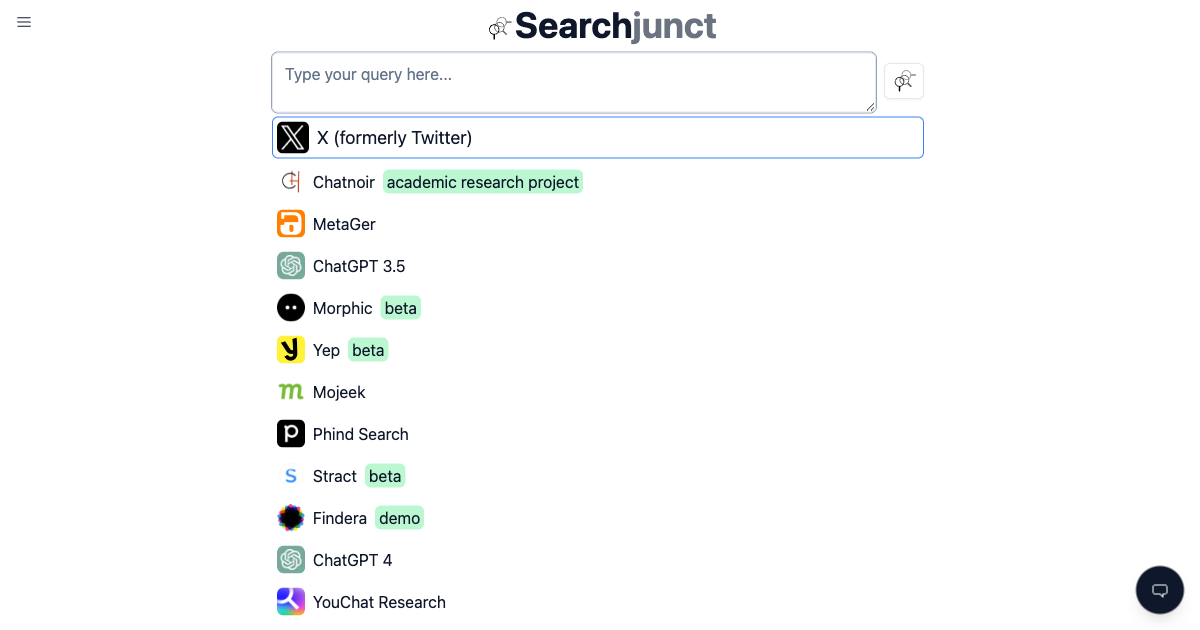
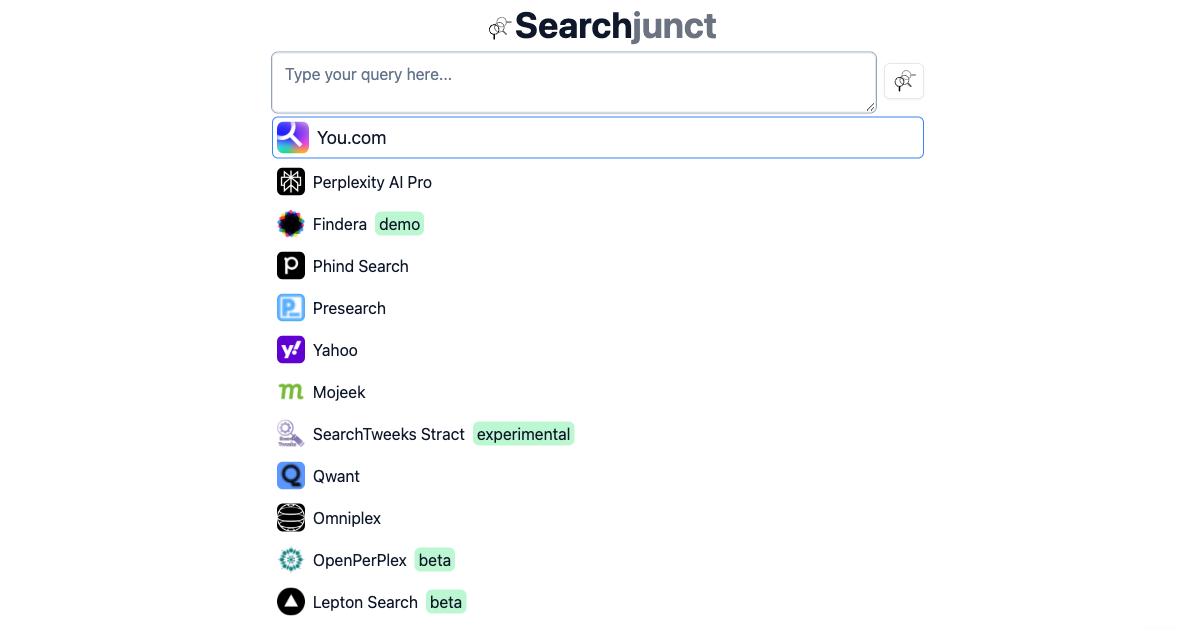
Add Rubik's AI system, update screenshots, and improve feedback action
- Add Rubik's AI to the list of systems in systems.json (#136)
- Update the home screenshot to reflect the latest UI changes
- Enhance the FeedbackAction component:
  - Add dynamic project name based on environment variable
  - Wrap buttons in anchor tags for better accessibility
  - Include Twitter logo icon for tweet button
- Update the LastUpdated component with the latest timestamp
- Style anchor tags globally for better visual consistency

Changed region(s): [[0.2158, 0.181, 0.4933, 0.573], [0.2158, 0.6635, 0.4933, 0.9952], [0.925, 0.8746, 0.9867, 0.9952]]

diff --git a/src/components/FeedbackAction.tsx b/src/components/FeedbackAction.tsx
@@ -1,6 +1,6 @@
-import React from 'react';
+import React, { useState, useEffect } from 'react';
 import { Button } from '@/src/components/ui/button';
-import { ChatBubbleIcon, EnvelopeClosedIcon, ExitIcon, GitHubLogoIcon } from '@radix-ui/react-icons';
+import { ChatBubbleIcon, EnvelopeClosedIcon, ExitIcon, GitHubLogoIcon, TwitterLogoIcon } from '@radix-ui/react-icons';
 import {
   Drawer,
   DrawerClose,
@@ -14,6 +14,18 @@ import {
 
 
 export const FeedbackAction: React.FC = () => {
+  const [isClient, setIsClient] = useState(false);
+
+  useEffect(() => {
+    setIsClient(true);
+  }, []);
+
+  if (!isClient) {
+    return null;
+  }
+
+
+  const projectName = process.env.NEXT_PUBLIC_DOMAIN?.split('/')[2].split('.')[0];
 
   return (
     <Drawer>
@@ -28,22 +40,33 @@ export const FeedbackAction: React.FC = () => {
           <DrawerDescription>Provide feedback.</DrawerDescription>
         </DrawerHeader>
         <div className="flex flex-col gap-1 mt-1">
-          <Button variant="outline" className="hover:bg-blue-100" onClick={() => {
-            window.open(
-              'https://twitter.com/intent/tweet?text=Hey @archignes, I just used Searchjunct.com and...', '_blank');
-          }}>
-            <EnvelopeClosedIcon className="w-4 h-4 mr-1" />Tweet @archignes</Button>
-          <Button variant="outline" className="hover:bg-blue-100" onClick={() => { window.open(
-            'mailto:daniel@archignes.com?subject=Feedback on Searchjunct.com', '_blank'); }}>
-            <EnvelopeClosedIcon className="w-4 h-4 mr-1" />Email Daniel</Button>
-          <Button variant="outline" className="hover:bg-blue-100" onClick={() => { window.open('https://github.com/archignes/searchjunct/issues/new', '_blank'); }}>
-            <GitHubLogoIcon className="w-4 h-4 mr-1"/>New GitHub issue</Button>
-          <Button variant="outline" className="hover:bg-blue-100" onClick={() => { window.open('https://github.com/archignes/searchjunct/issues', '_blank'); }}>
-            <GitHubLogoIcon className="w-4 h-4 mr-1"/>See open GitHub issues</Button>
+          <a href={`https://twitter.com/intent/tweet?text=Hey @archignes, I just used ${projectName} and...`} target="_blank" rel="noopener noreferrer">
+            <Button variant="outline" className="hover:bg-blue-100" onClick={() => {
+              window.open(
+                `https://twitter.com/intent/tweet?text=Hey @archignes, I just used ${projectName} and...`, '_blank');
+            }}>
+              <TwitterLogoIcon className="w-4 h-4 mr-1" />Tweet @archignes
+            </Button>
+          </a>
+          <a href={`mailto:daniel@archignes.com?subject=Feedback on ${projectName}`} target="_blank" rel="noopener noreferrer">
+            <Button variant="outline" className="hover:bg-blue-100">
+              <EnvelopeClosedIcon className="w-4 h-4 mr-1" />Email Daniel
+            </Button>
+          </a>
+          <a href={`https://github.com/archignes/${projectName}/issues/new`} target="_blank" rel="noopener noreferrer">
+            <Button variant="outline" className="hover:bg-blue-100">
+              <GitHubLogoIcon className="w-4 h-4 mr-1" />New GitHub issue
+            </Button>
+          </a>
+          <a href={`https://github.com/archignes/${projectName}/issues`} target="_blank" rel="noopener noreferrer">
+            <Button variant="outline" className="hover:bg-blue-100">
+              <GitHubLogoIcon className="w-4 h-4 mr-1" />See open GitHub issues
+            </Button>
+          </a>
         </div>
         <DrawerFooter>
           <DrawerClose>
-            <ExitIcon/>
+            <ExitIcon />
           </DrawerClose>
         </DrawerFooter>
       </DrawerContent>

diff --git a/src/styles/globals.css b/src/styles/globals.css
@@ -139,3 +139,20 @@ body {
     display: block;
     /* or visibility: visible; */
 }
+
+
+@layer components {
+    .arrLink {
+        text-decoration: underline;
+        /* Underline all anchor text */
+        padding-top: 0.25rem;
+        /* Add padding top, 0.25rem equivalent */
+        border-radius: 0.375rem;
+        /* Rounded-md equivalent */
+    }
+
+    .arrLink:hover {
+        background-color: rgb(219, 234, 254);
+        /* Hover background color blue-100 */
+    }
+}

diff --git a/src/components/LastUpdated.tsx b/src/components/LastUpdated.tsx
@@ -1,5 +1,5 @@
 import React from "react";
-const lastUpdated = "2024-05-07T21:03:24.622Z";
+const lastUpdated = "2024-06-04T13:59:04.041Z";
 
 const LastUpdated: React.FC = () => {
   return (
